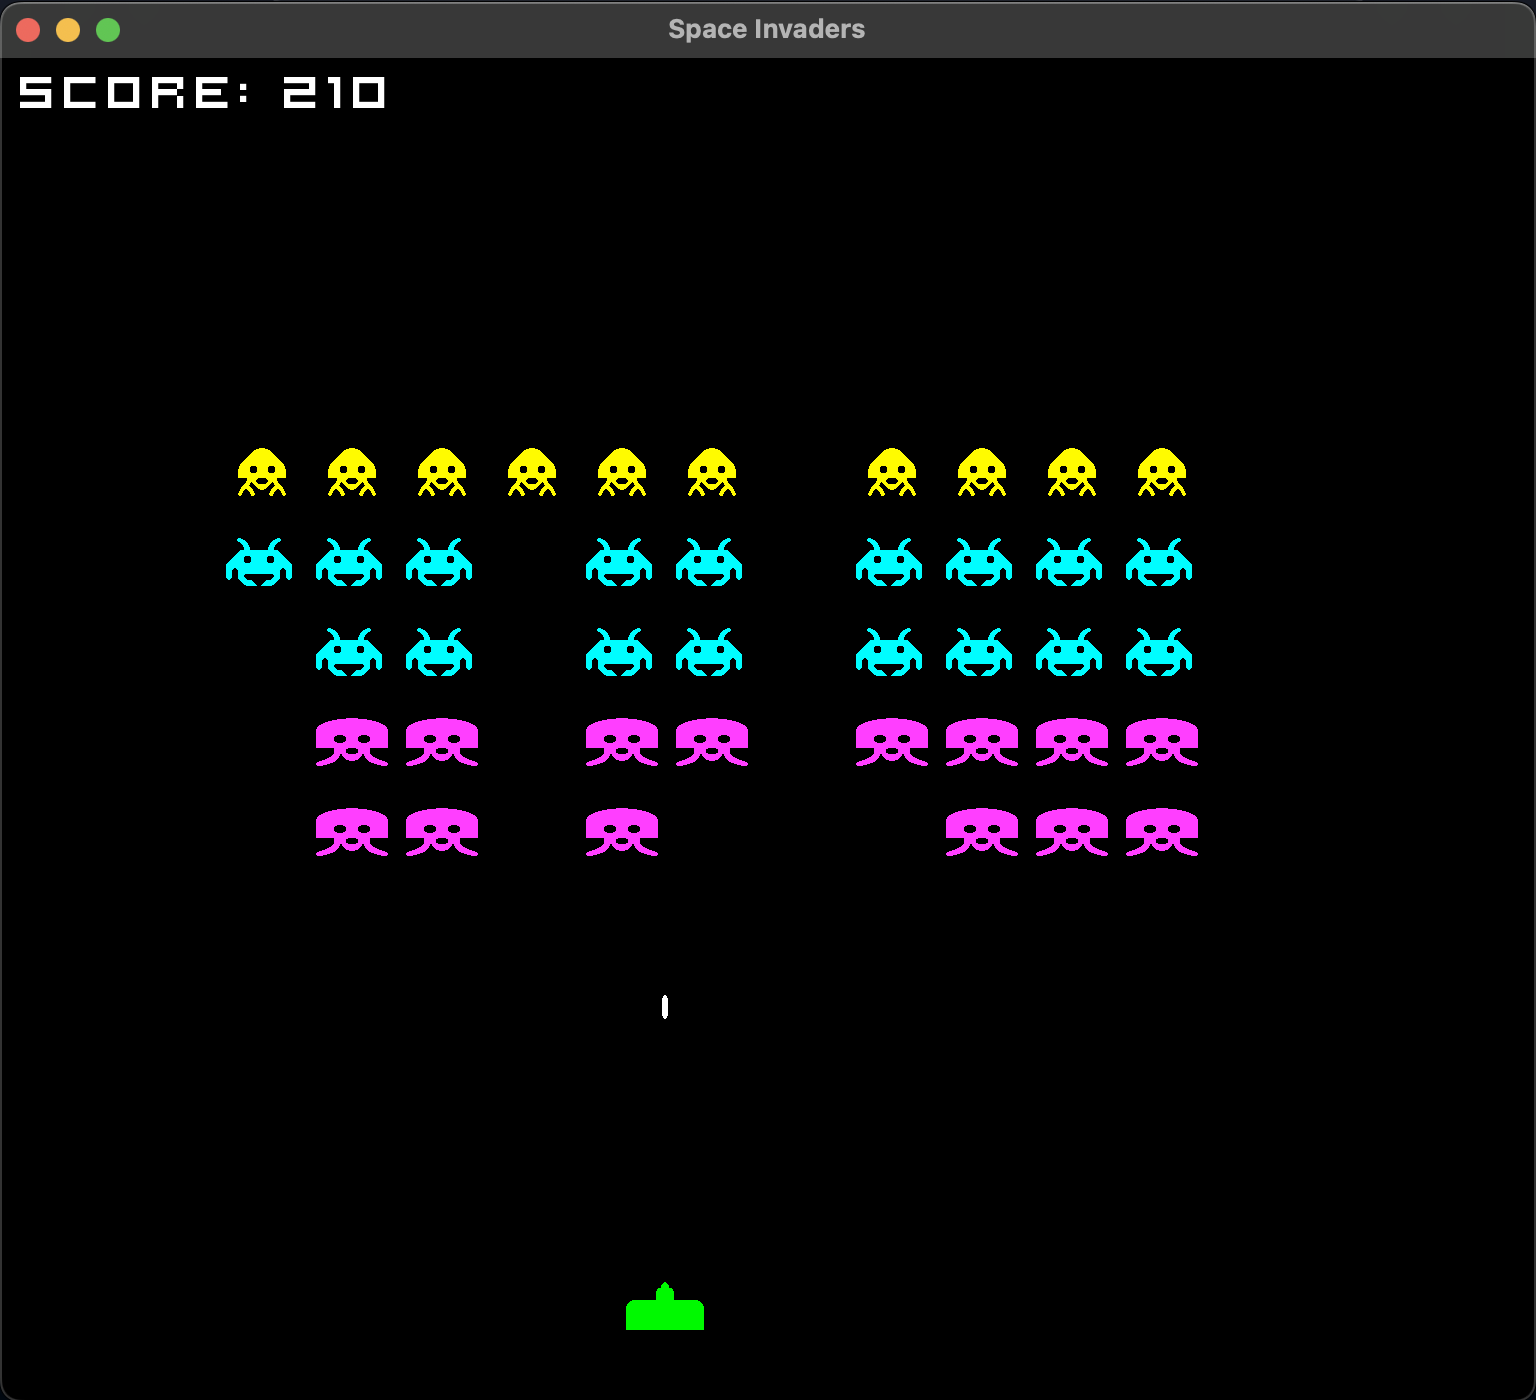
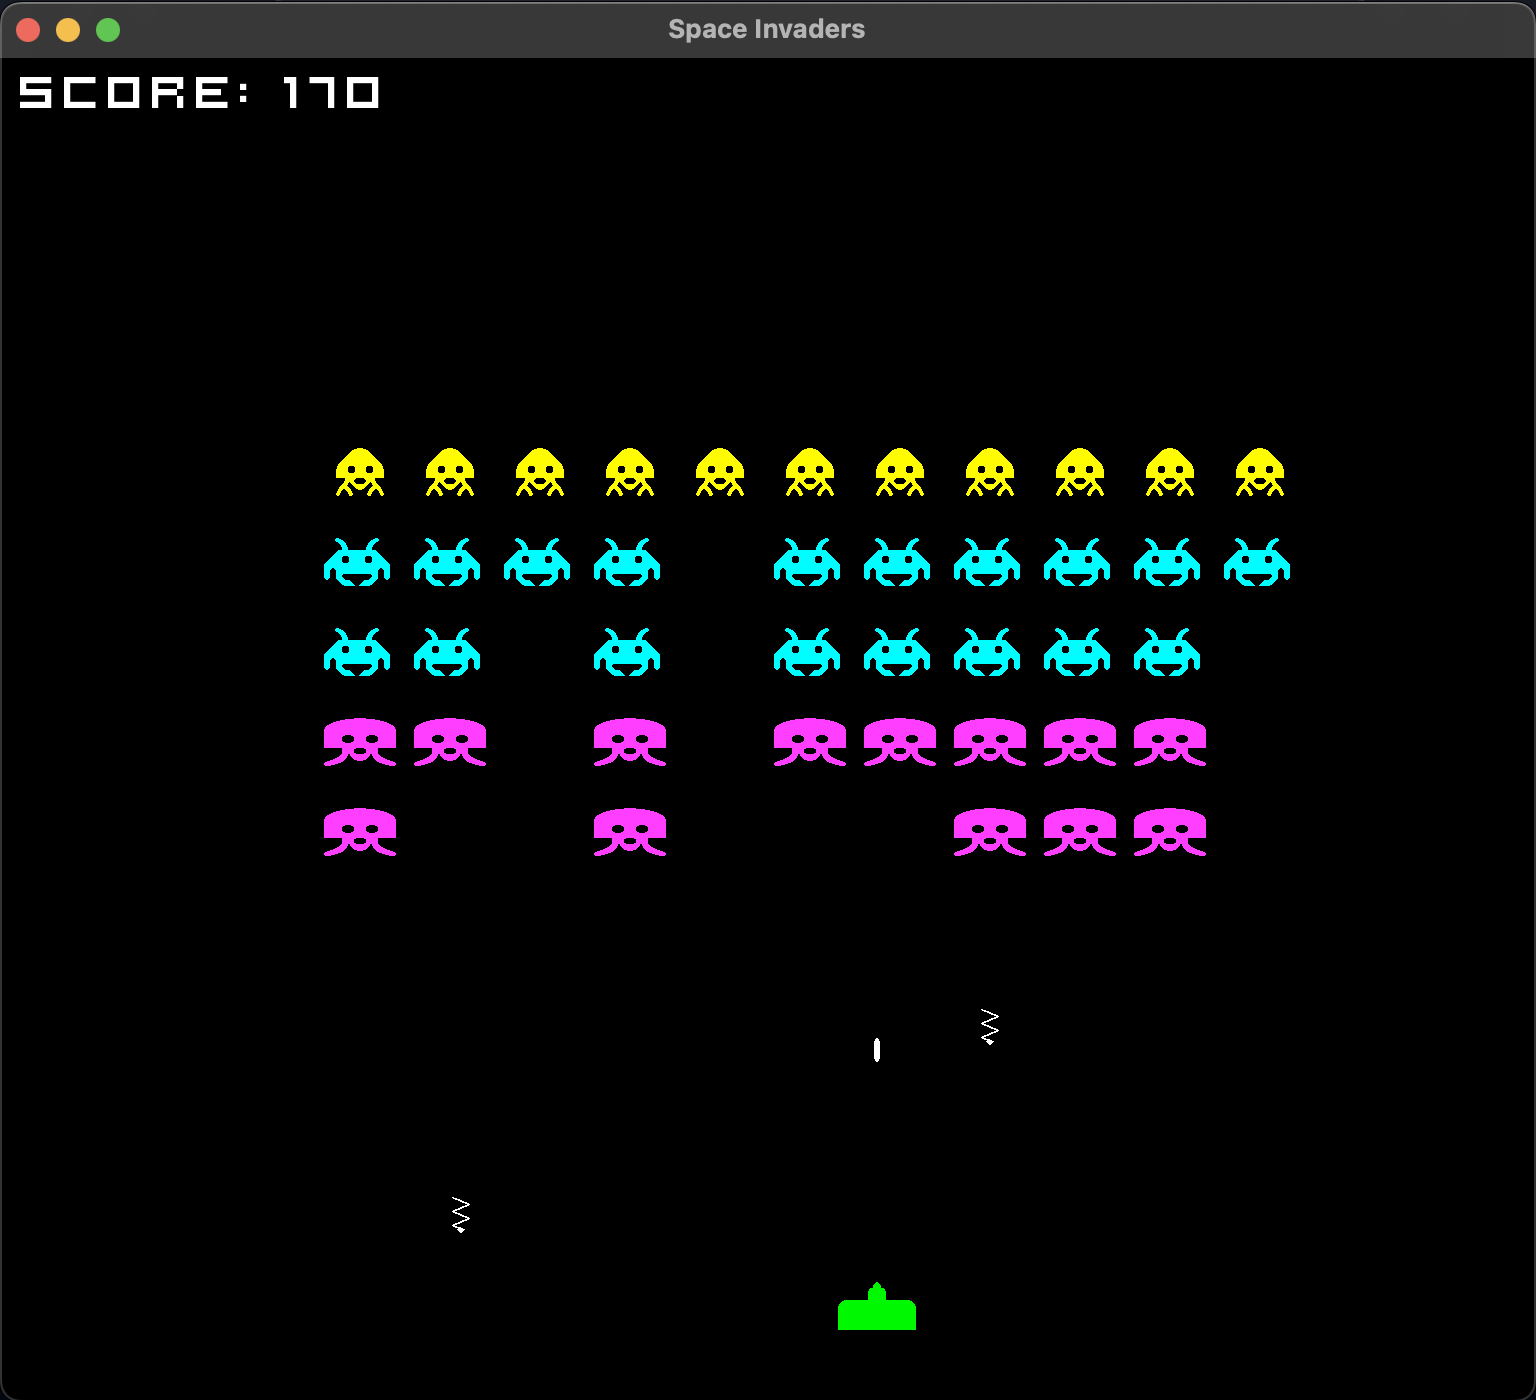
Update README
Update the first figure with a new gameplay screenshot that features the
invader lasers and an updated caption.

diff --git a/README.md b/README.md
@@ -28,7 +28,7 @@ The player controls a Laser Cannon at the bottom of the window which can be move
 </p>
 
 <p align="center">
-  <b>Fig.1 -</b> A screenshot of the game window with the Laser Cannon at the bottom of the board, firing the Laser with the grid of Invaders above. The player's score can be seen in the top left hand corner
+  <b>Fig.1 -</b> A screenshot of the game window with the Laser Cannon at the bottom of the board, firing the Laser at the grid of Invaders above while dodging 2 of the Invader lasers. The player's score can be seen in the top left hand corner
 </p>
 
 <p align="center">
